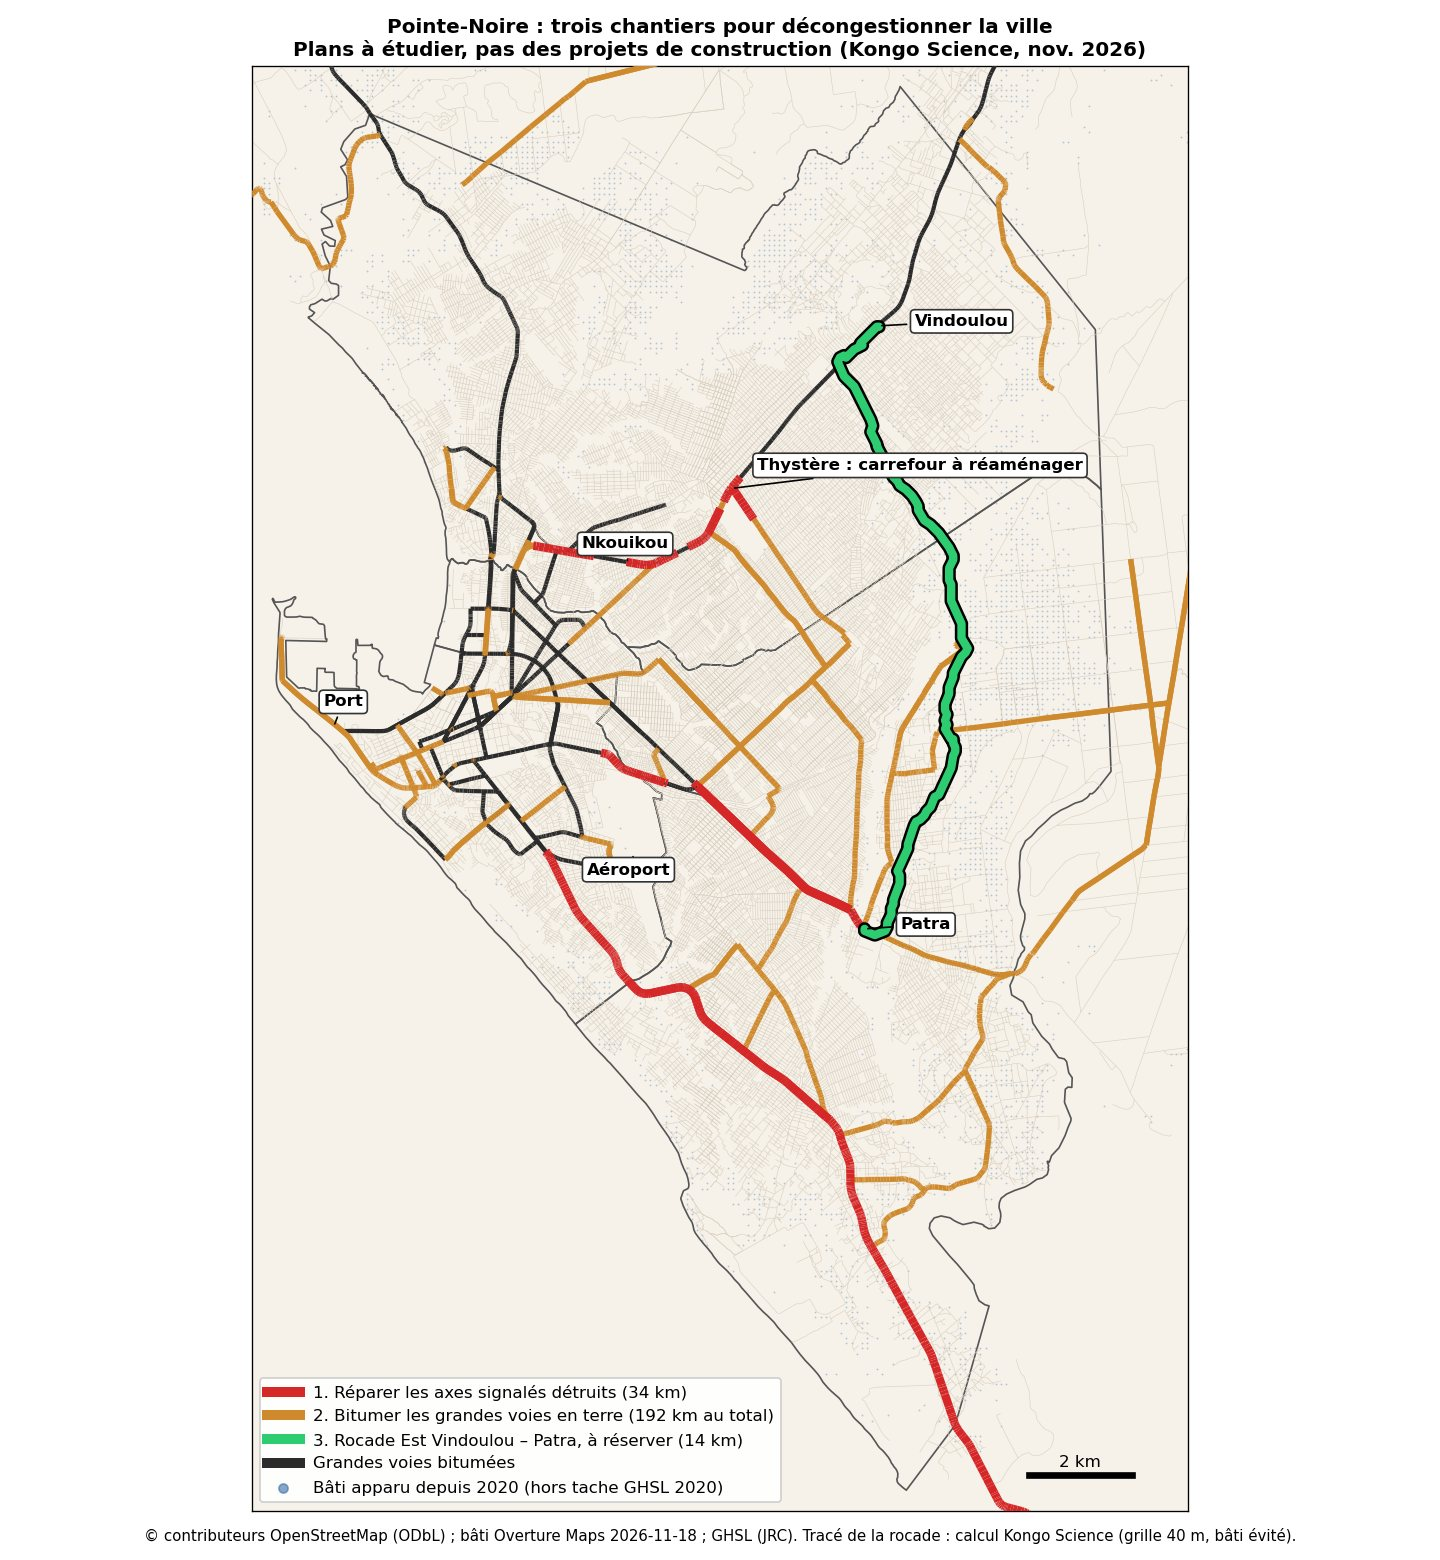
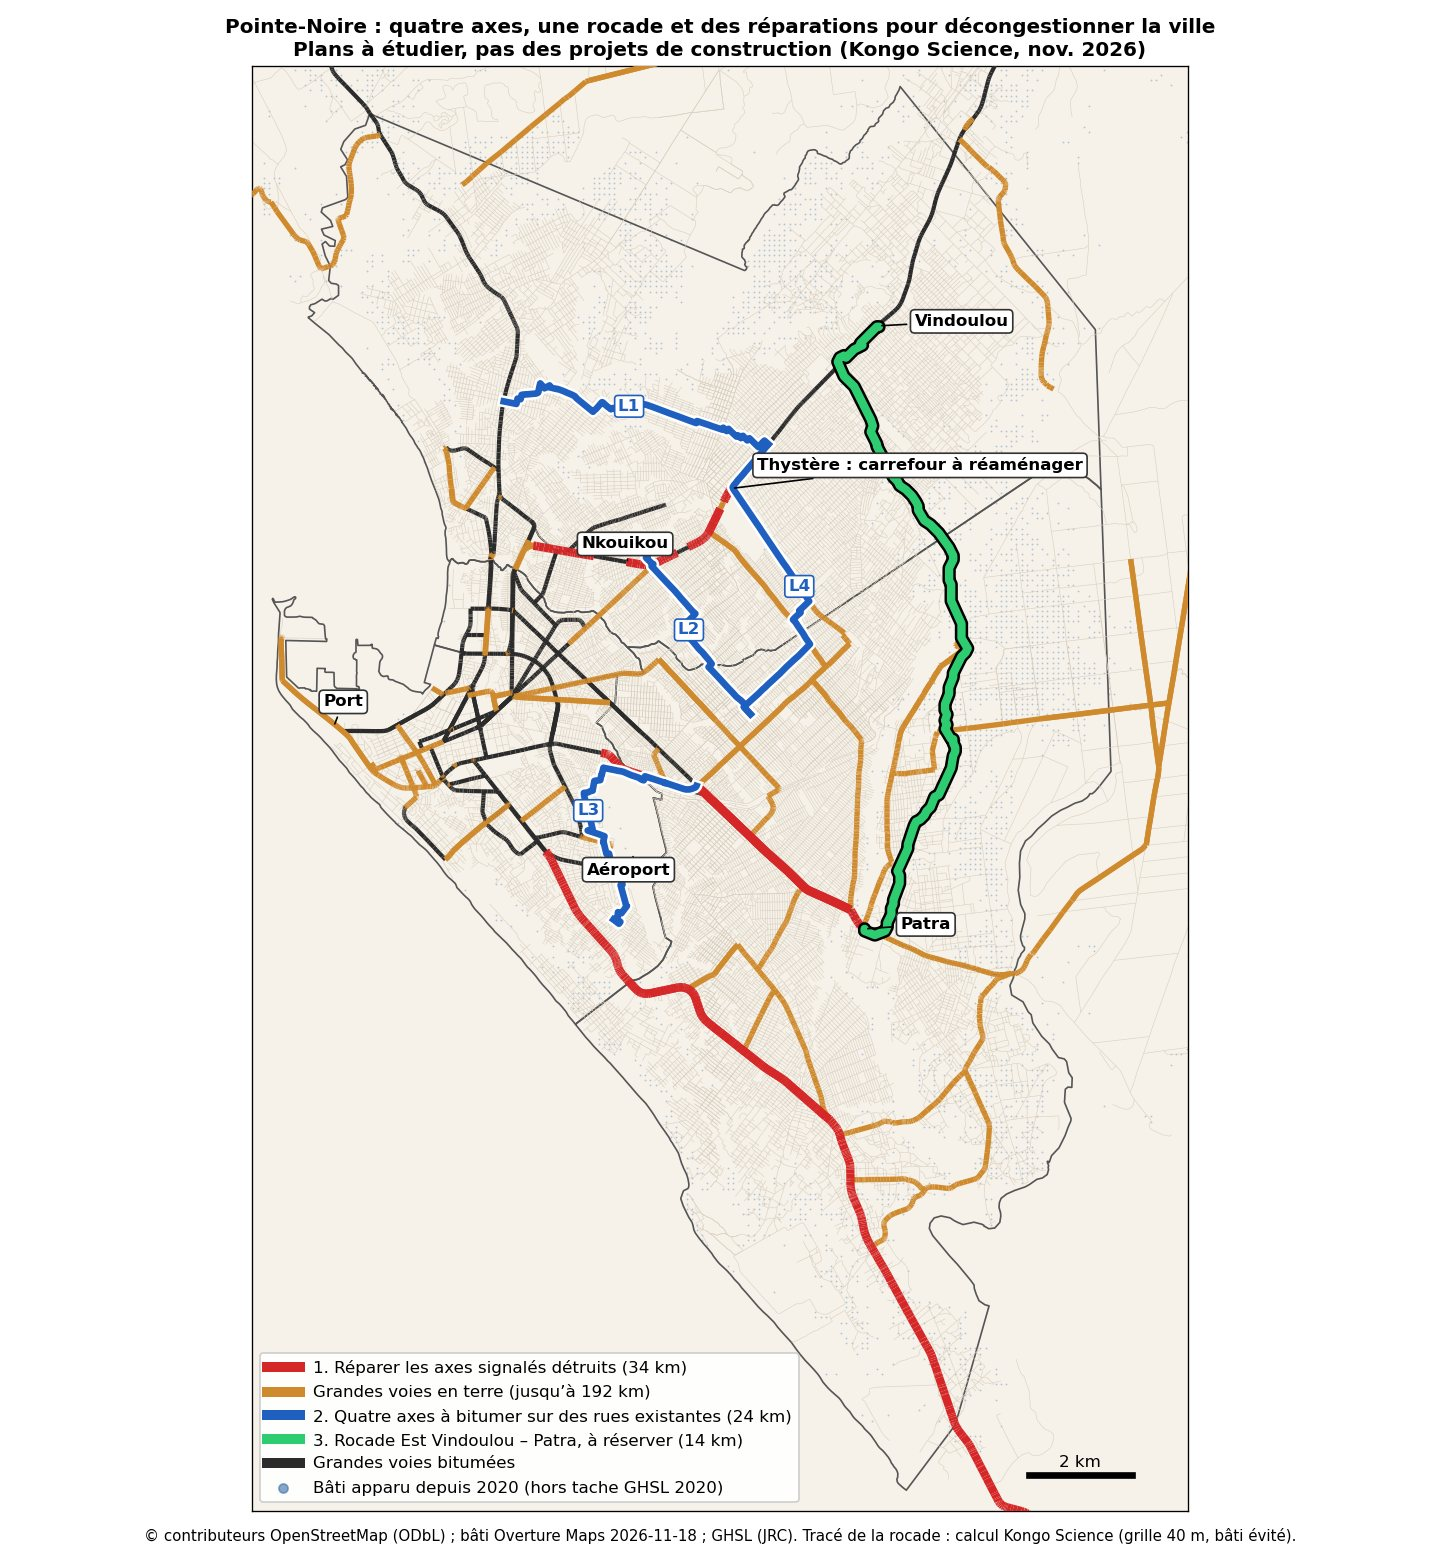
Rapport Pointe-Noire : quatre axes L1-L4, couts, scenarios combines, TPT PLUS TV

diff --git a/src/data/rapports/routesPointeNoire.ts b/src/data/rapports/routesPointeNoire.ts
@@ -22,20 +22,20 @@ export const RAPPORT_ROUTES_POINTE_NOIRE: Article = {
   id: 'routes-pointe-noire-2026',
   title: 'Pointe-Noire : peu de routes, et des routes détruites',
   excerpt:
-    "Étude pilote : 403 403 bâtiments, le réseau routier, l'état des chaussées et la croissance de la ville croisés pour comprendre les bouchons de Pointe-Noire, de Thystère à Patra, et chiffrer trois chantiers.",
+    "Étude pilote : 403 403 bâtiments, le réseau routier, l'état des chaussées et la croissance de la ville croisés pour comprendre les bouchons de Pointe-Noire, de Thystère à Patra, et chiffrer les liaisons qui manquent.",
   category: 'Géosciences',
   author: 'Hardy Nkodia',
   date: 'Nov. 2026',
   imageUrl: `${D}/plans.jpg`,
   imageCredit: 'Kongo Science. © contributeurs OpenStreetMap ; bâti Overture Maps',
   content: `
-<p><strong>En bref.</strong> Pointe-Noire souffre de deux maux à la fois. <strong>Il manque des routes</strong> : à Loandjili, 56 % des bâtiments sont à plus de 500 mètres d'une grande voie, contre 1 % à Mvou-Mvou. <strong>Et les routes existantes sont détruites</strong> : sur 52 points contrôlés sur image satellite, 21 grandes voies sont en terre ou en sable. Notre simulation retrouve d'elle-même les points noirs cités par les habitants : la RN1 entre Loandjili et Thystère, Nkouikou, Mongo-Kamba, la RN4 vers Ngoyo. Réparer les 34 km d'axes signalés détruits raccourcirait les trajets d'environ 13 %, mais ramènerait encore plus de voitures vers Thystère. Ce carrefour doit être traité en même temps.</p>
+<p><strong>En bref.</strong> Pointe-Noire souffre de deux maux à la fois. <strong>Il manque des routes</strong> : à Loandjili, 56 % des bâtiments sont à plus de 500 mètres d'une grande voie, contre 1 % à Mvou-Mvou. <strong>Et les routes existantes sont détruites</strong> : sur 52 points contrôlés sur image satellite, 21 grandes voies sont en terre ou en sable. Notre simulation retrouve d'elle-même les points noirs cités par les habitants : la RN1 entre Loandjili et Thystère, Nkouikou, Mongo-Kamba, la RN4 vers Ngoyo. Réparer seul déplacerait le bouchon vers Thystère. <strong>Réparer les axes détruits, bitumer quatre axes sur des rues existantes et réserver une rocade Est</strong> raccourcirait les trajets d'environ un quart, pour 83 à 186 milliards de FCFA, soit environ trois fois moins que tout bitumer.</p>
 
 <p><strong>Ceci est une étude pilote, non évaluée par les pairs.</strong> Le trafic est simulé, il n'a pas été compté. Les tracés sont à étudier, ce ne sont pas des projets de construction.</p>
 
 <h3>1. Ce que disent les habitants</h3>
 <p>Après notre étude sur Brazzaville, des Ponténégrins nous ont écrit. Ils citent les bouchons de Siafoumou, de Tié-Tié, de Thystère, de Nkouikou et de Patra, toujours aux mêmes heures, et surtout de « mauvaises routes ». Nous avons filmé le 26 novembre 2026 devant la mairie de Loandjili et au rond-point Thystère : taxis, bus, motos, camions porte-conteneurs et citernes y partagent la même chaussée.</p>
-<p>Deux reportages télévisés décrivent l'axe Fond Tié-Tié – Patra, sur l'avenue de l'Indépendance (MCRTV NF, 5 novembre 2026, et une seconde chaîne). Chauffeurs, commerçants et passagers y parlent de trous profonds, de bourbiers les jours de pluie, de clients déposés avant la destination et de tarifs qui montent. La presse le dit depuis des années : bouchons de deux à trois heures et tarif doublé les jours de pluie sur l'avenue Thystère à Mongo-Kamba (La Semaine Africaine, 2023) ; Fond Tié-Tié, « Bord-Bord » et avenue de l'Indépendance dégradés (ADIAC, 2025) ; route de Djeno décrite par le préfet comme un « parcours de combattant » (ADIAC, 2026).</p>
+<p>Deux reportages télévisés décrivent l'axe Fond Tié-Tié – Patra, sur l'avenue de l'Indépendance (TPT PLUS TV, et MCRTV NF le 5 novembre 2026). Chauffeurs, commerçants et passagers y parlent de trous profonds, de bourbiers les jours de pluie, de clients déposés avant la destination et de tarifs qui montent. La presse le dit depuis des années : bouchons de deux à trois heures et tarif doublé les jours de pluie sur l'avenue Thystère à Mongo-Kamba (La Semaine Africaine, 2023) ; Fond Tié-Tié, « Bord-Bord » et avenue de l'Indépendance dégradés (ADIAC, 2025) ; route de Djeno décrite par le préfet comme un « parcours de combattant » (ADIAC, 2026).</p>
 
 <h3>2. Données et méthode</h3>
 ${liste([
@@ -75,19 +75,29 @@ ${table(['Trajet', "Vol d'oiseau", 'Par grandes voies', 'Détour'], [
 ${fig('trafic_etat.jpg', "Trafic simulé avec l'état réel des routes", "Même simulation, avec les voies en terre ou détruites ralenties. Les points noirs restent les mêmes ; c'est la durée des trajets qui change.")}
 <p>Peu, pour les lieux : <strong>les points noirs restent les mêmes</strong>. Ce qui change, c'est la durée de tous les trajets, et un report vers Fond Tié-Tié et le marché de Tié-Tié. Quand une grande voie est détruite, les chauffeurs fuient par les ruelles, comme le racontent les reportages ; mais les ruelles sont en sable elles aussi.</p>
 
-<h3>5. Trois chantiers, et leur effet</h3>
-${fig('plans.jpg', 'Trois chantiers pour décongestionner Pointe-Noire', "1. Réparer les axes signalés détruits ; 2. bitumer les grandes voies en terre ; 3. réserver une rocade Est de Vindoulou à Patra. Tracé de la rocade sur une grille de 40 m, bâti évité.")}
+<h3>5. Les plans : réparer, relier, réserver</h3>
+${fig('plans.jpg', 'Plans pour décongestionner Pointe-Noire', "Réparations (rouge), quatre axes à bitumer sur des rues existantes (bleu, L1 à L4) et rocade Est à réserver (vert). Tracés calculés sur le réseau OSM et le bâti Overture.")}
+<p><strong>Pointe-Noire a déjà des rues partout</strong> (3 700 km), mais étroites et en sable. Il ne s'agit donc pas surtout d'ouvrir des routes neuves, mais de <strong>choisir des rues existantes et d'en faire de vrais axes bitumés</strong>, qui contournent les passages obligés. Leur emprise est large : 30 à 39 m en moyenne de façade à façade. Mais des constructions s'y sont installées : une chaussée de 12 m en touche entre 32 et 144 par axe, petites pour la plupart (36 à 43 m² en valeur médiane : boutiques, kiosques, annexes).</p>
+${table(['Axe', 'Longueur', "Vol d'oiseau", 'Déjà grande voie', 'Constructions dans 12 m', 'Effet seul (trajets améliorés)', 'Ordre de grandeur'], [
+  ['<strong>L1</strong> Siafoumou – Mongo-Kamba, au nord de Thystère', '6,5 km', '5,2 km', '0 km', '142', '16 %', '7,8 – 17,6 Mds FCFA'],
+  ['<strong>L2</strong> Nkouikou – Voungou', '4,5 km', '3,8 km', '0,1 km', '144', '18 %', '5,3 – 12,0 Mds'],
+  ["<strong>L3</strong> Fond Tié-Tié – Tchimbamba, par le nord-ouest de l'aéroport", '6,2 km', '3,1 km', '1,2 km', '83', '13 %', '6,7 – 14,8 Mds'],
+  ["<strong>L4</strong> Mongo-Kamba – Voungou, parallèle à l'avenue Thystère", '6,8 km', '5,3 km', '4,3 km', '32', '23 %', '5,6 – 11,9 Mds'],
+  ['<strong>R</strong> Rocade Est Vindoulou – Patra, à réserver', '14,2 km', '–', '–', '164 (emprise 20 m)', '40 %', '17 – 38 Mds'],
+])}
+<p style="font-family:sans-serif;font-size:.85rem;line-height:1.6;color:#475569">Coût : 1,2 à 2,7 milliards de FCFA par km de voie à bitumer, la moitié sur les tronçons déjà classés grande voie. Hors expropriations. L2 seul attire du trafic vers Nkouikou : il doit venir avec le réaménagement de ce carrefour.</p>
 ${table(['Scénario', 'Temps moyen des trajets', 'Trajets améliorés (> 5 %)', 'Thystère', 'Nkouikou', 'Ordre de grandeur'], [
   ["Aujourd'hui", '–', '–', '10,1 %', '12,7 %', '–'],
-  ['1. Réparer les axes signalés (34 km)', '−13 %', '68 %', '15,6 %', '18,3 %', '41 – 92 Mds FCFA'],
-  ['2. Bitumer les grandes voies sans bitume connu (jusqu\'à 192 km)', '−30 %', '95 %', '16,7 %', '18,2 %', '230 – 519 Mds'],
-  ['3. Rocade Est seule (14,2 km)', '−7 %', '40 %', '9,9 %', '12,2 %', '17 – 38 Mds'],
-  ['2 + 3', '−35 %', '96 %', '14,9 %', '17,6 %', '247 – 557 Mds'],
+  ['Réparer les 34 km signalés', '−13 %', '68 %', '15,6 %', '18,3 %', '41 – 92 Mds'],
+  ['Les quatre axes L1 à L4', '−11 %', '68 %', '12,0 %', '14,1 %', '25 – 56 Mds'],
+  ['<strong>Réparations + L1 à L4</strong>', '<strong>−22 %</strong>', '89 %', '12,6 %', '18,4 %', '66 – 148 Mds'],
+  ['<strong>Réparations + L1 à L4 + rocade</strong>', '<strong>−27 %</strong>', '91 %', '11,4 %', '17,4 %', '83 – 186 Mds'],
+  ['Bitumer toutes les grandes voies sans bitume connu', '−30 %', '95 %', '16,7 %', '18,2 %', '230 – 519 Mds'],
 ])}
-<p style="font-family:sans-serif;font-size:.85rem;line-height:1.6;color:#475569">Thystère et Nkouikou : part des trajets simulés qui y passent. Les gains de temps dépendent de l'hypothèse de ralentissement : ce sont des ordres de grandeur. Le chantier 2 inclut le chantier 1.</p>
-<p><strong>Réparer coûte moins cher et sert presque tout le monde.</strong> Mais une route réparée attire du trafic : Thystère passerait de 10 % à 16 % des trajets simulés, Nkouikou de 13 % à 18 %. <strong>Réparer sans traiter Thystère déplacerait le bouchon, pas le supprimer.</strong></p>
-<p><strong>La rocade Est</strong> traverse la réserve de terrain de l'est (section 7). Elle touche environ 164 bâtiments sur une emprise de 20 m, pour une pente de 8 % au plus. Seule, elle agit peu ; elle prépare surtout la ville de 2040. Prolongée vers Ngoyo, elle traverserait un quartier dense (118 bâtiments sur 4,9 km) : là, mieux vaut bitumer les rues existantes.</p>
-<p><strong>Les camions du port.</strong> Le contournement de Thystère par la RN4 puis la rocade ne fait gagner qu'environ 4 % aux camions dans notre modèle. Les camions resteront sur la RN1 tant que le port n'aura pas d'autre sortie vers le nord-est.</p>
+<p style="font-family:sans-serif;font-size:.85rem;line-height:1.6;color:#475569">Thystère et Nkouikou : part des trajets simulés qui y passent. Les gains de temps dépendent de l'hypothèse de ralentissement des voies en terre : ce sont des ordres de grandeur.</p>
+<p><strong>Réparer seul déplace le bouchon.</strong> Une route réparée attire du trafic : Thystère passerait de 10 % à 16 % des trajets simulés. <strong>Réparer et relier</strong> donne presque le même gain que tout bitumer (−27 % contre −30 %), pour environ trois fois moins cher, et Thystère reste proche d'aujourd'hui (11 %). Nkouikou, sur l'avenue Mâ-Loango, reste le point le plus chargé dans tous les scénarios : ce carrefour doit être réaménagé.</p>
+<p><strong>La rocade Est</strong> traverse la réserve de terrain de l'est (section 7). Seule, elle agit peu ; elle prépare surtout la ville de 2040. Prolongée vers Ngoyo, elle traverserait un quartier dense (118 bâtiments sur 4,9 km) : là, mieux vaut bitumer les rues existantes.</p>
+<p><strong>Les camions du port.</strong> Contourner Thystère par la RN4 puis la rocade ne leur fait gagner qu'environ 4 % dans notre modèle. Ils resteront sur la RN1 tant que le port n'aura pas d'autre sortie vers le nord-est.</p>
 
 <h3>6. Thystère</h3>
 <p>La Congolaise des routes a lancé le 12 décembre 2025 la réhabilitation du giratoire et de 200 m de chaussée, annoncée pour un mois (ADIAC). Un conteneur s'y est renversé le 28 février 2024, jour du lancement des voiries de la ville (La Semaine Africaine). Un nouveau marché y est annoncé (ADIAC, février 2026). Nos vidéos du 26 novembre 2026 montrent un marché sur les bords du giratoire, des citernes et des porte-conteneurs mêlés aux taxis.</p>
@@ -114,7 +124,8 @@ ${liste([
 <h3>9. Priorités proposées</h3>
 <ol style="list-style:decimal;padding-left:1.6rem;margin:0 0 2rem">
 <li style="margin-bottom:.7rem"><strong>Réparer les axes signalés</strong> : avenue de l'Indépendance Fond Tié-Tié – Patra, RN1 Loandjili – Thystère, avenue Marien-Ngouabi « Bord-Bord », avenue Thystère à Mongo-Kamba, RN4 vers Ngoyo. <strong>En même temps</strong>, réaménager Thystère et Nkouikou.</li>
-<li style="margin-bottom:.7rem"><strong>Bitumer progressivement</strong> les grandes voies en terre de Loandjili, Mongo-Mpoukou, Tié-Tié et Ngoyo, avec leur drainage.</li>
+<li style="margin-bottom:.7rem"><strong>Bitumer quatre axes sur des rues existantes</strong> : L4 Mongo-Kamba – Voungou d'abord (le plus efficace, le moins de constructions touchées), puis L1, L3 et L2, en libérant les emprises occupées.</li>
+<li style="margin-bottom:.7rem"><strong>Bitumer progressivement</strong> les autres grandes voies en terre de Loandjili, Mongo-Mpoukou, Tié-Tié et Ngoyo, avec leur drainage.</li>
 <li style="margin-bottom:.7rem"><strong>Réserver l'emprise de la rocade Est</strong>, de Vindoulou à Patra, dès maintenant.</li>
 <li style="margin-bottom:.7rem"><strong>Compter</strong> le trafic à Thystère, à Nkouikou et sur la RN1, avant toute décision d'échangeur.</li>
 </ol>
@@ -125,7 +136,7 @@ ${liste([
   'Le contrôle du revêtement porte sur 52 points ; la date des images n\'est pas connue ; certaines routes ont pu être refaites ou détruites depuis.',
   'Les camions ne sont pas simulés à part ; le port, les marchés et les horaires réels non plus.',
   'GHSL surestime la ville ancienne ; les directions d\'étalement sont plus solides que les surfaces.',
-  'La rocade n\'a pas été vue sur le terrain ; propriété foncière, zones humides et réseaux ne sont pas vérifiés.',
+  'La rocade et les axes L1 à L4 n\'ont pas été vus sur le terrain ; propriété foncière, zones humides, réseaux et état des constructions dans l\'emprise ne sont pas vérifiés.',
   'Les articles de presse ont été lus en ligne ; les reportages ont été transcrits automatiquement.',
 ])}
 
@@ -147,7 +158,7 @@ ${liste([
   'ADIAC / Les Dépêches de Brazzaville : giratoire de Thystère (23 décembre 2025) ; routes en lamentable état (6 mars 2025) ; marchés de Thystère et Fond Tié-Tié (19 février 2026) ; route Pointe-Noire – Djeno (10 février 2026).',
   'La Semaine Africaine : réseau routier « très lamentable » (1er mai 2023) ; conteneur renversé au rond-point Thystère (8 mars 2024) ; réhabilitation attendue (3 juin 2025).',
   'Les Échos du Congo-Brazzaville : lancement des travaux de voirie (29 février 2024).',
-  'MCRTV NF : « Voiries urbaines, le tronçon Fond Tié-Tié – Patra à l\'agonie » (5 novembre 2026) ; second reportage télévisé sur le même axe.',
+  'MCRTV NF : « Voiries urbaines, le tronçon Fond Tié-Tié – Patra à l\'agonie » (5 novembre 2026) ; TPT PLUS TV : « Circulation routière, route dégradée axe Fond de Tié-Tié à Patra ».',
   'Vidéos de terrain : H. Nkodia, Loandjili et Thystère, 26 novembre 2026.',
   'Banque mondiale (2023). <em>DURQuaP, Implementation Completion and Results Report</em>, ICR00006200.',
   'Données : © contributeurs OpenStreetMap (ODbL) ; Overture Maps ; ALOS World 3D 30 m (JAXA) ; GHSL GHS-BUILT-S R2023A (Commission européenne, JRC) ; imagerie Maxar via Esri World Imagery (contrôle visuel).',
